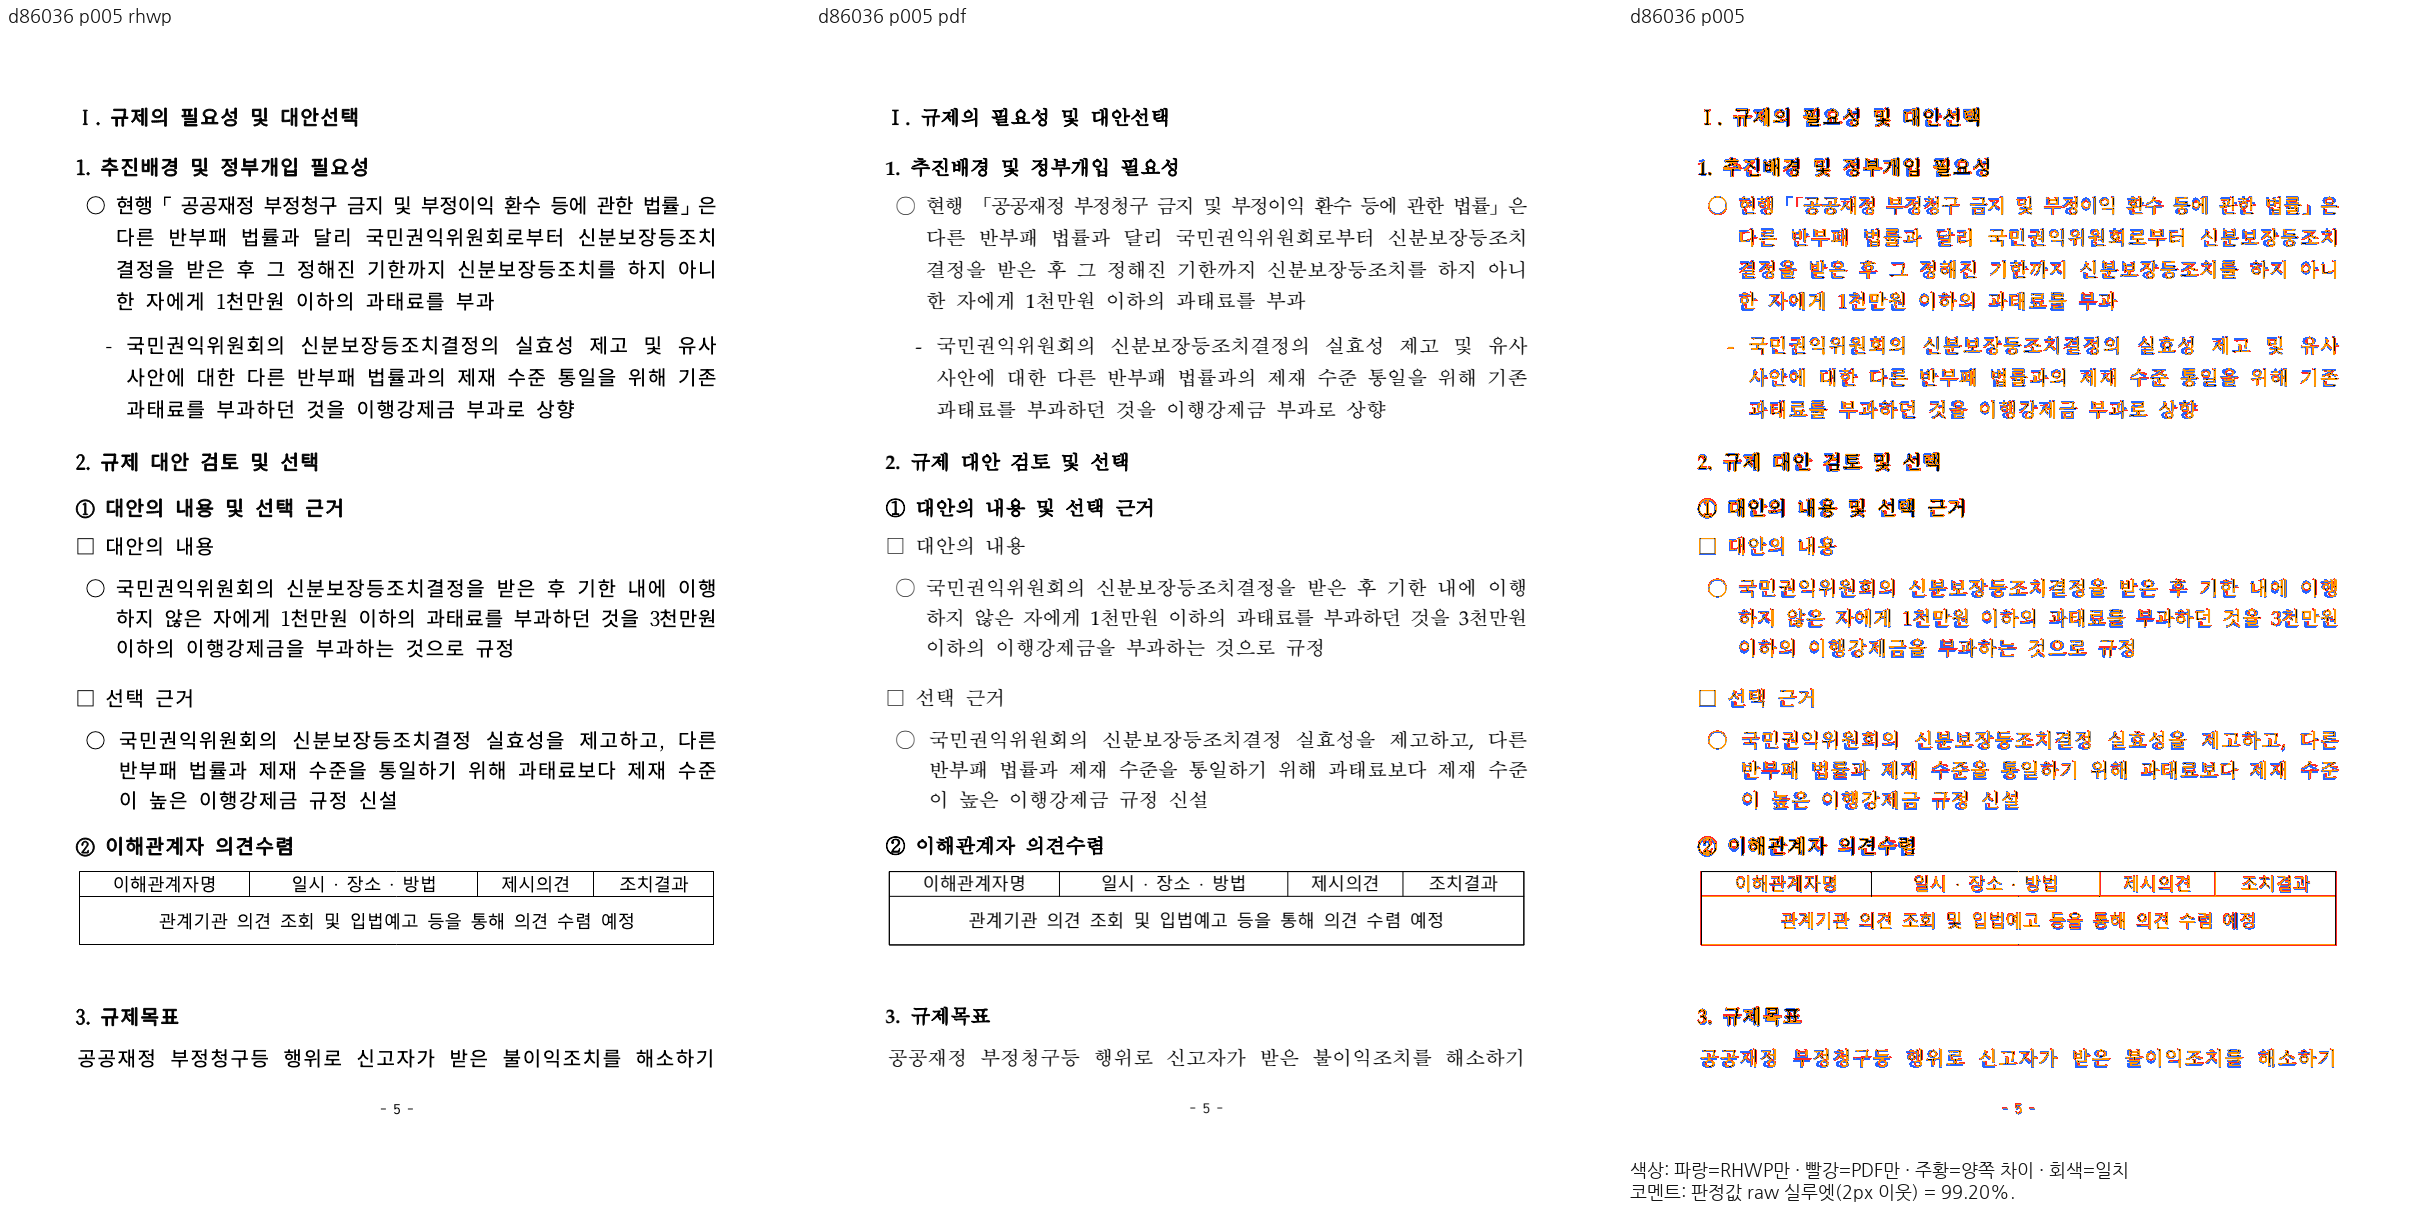
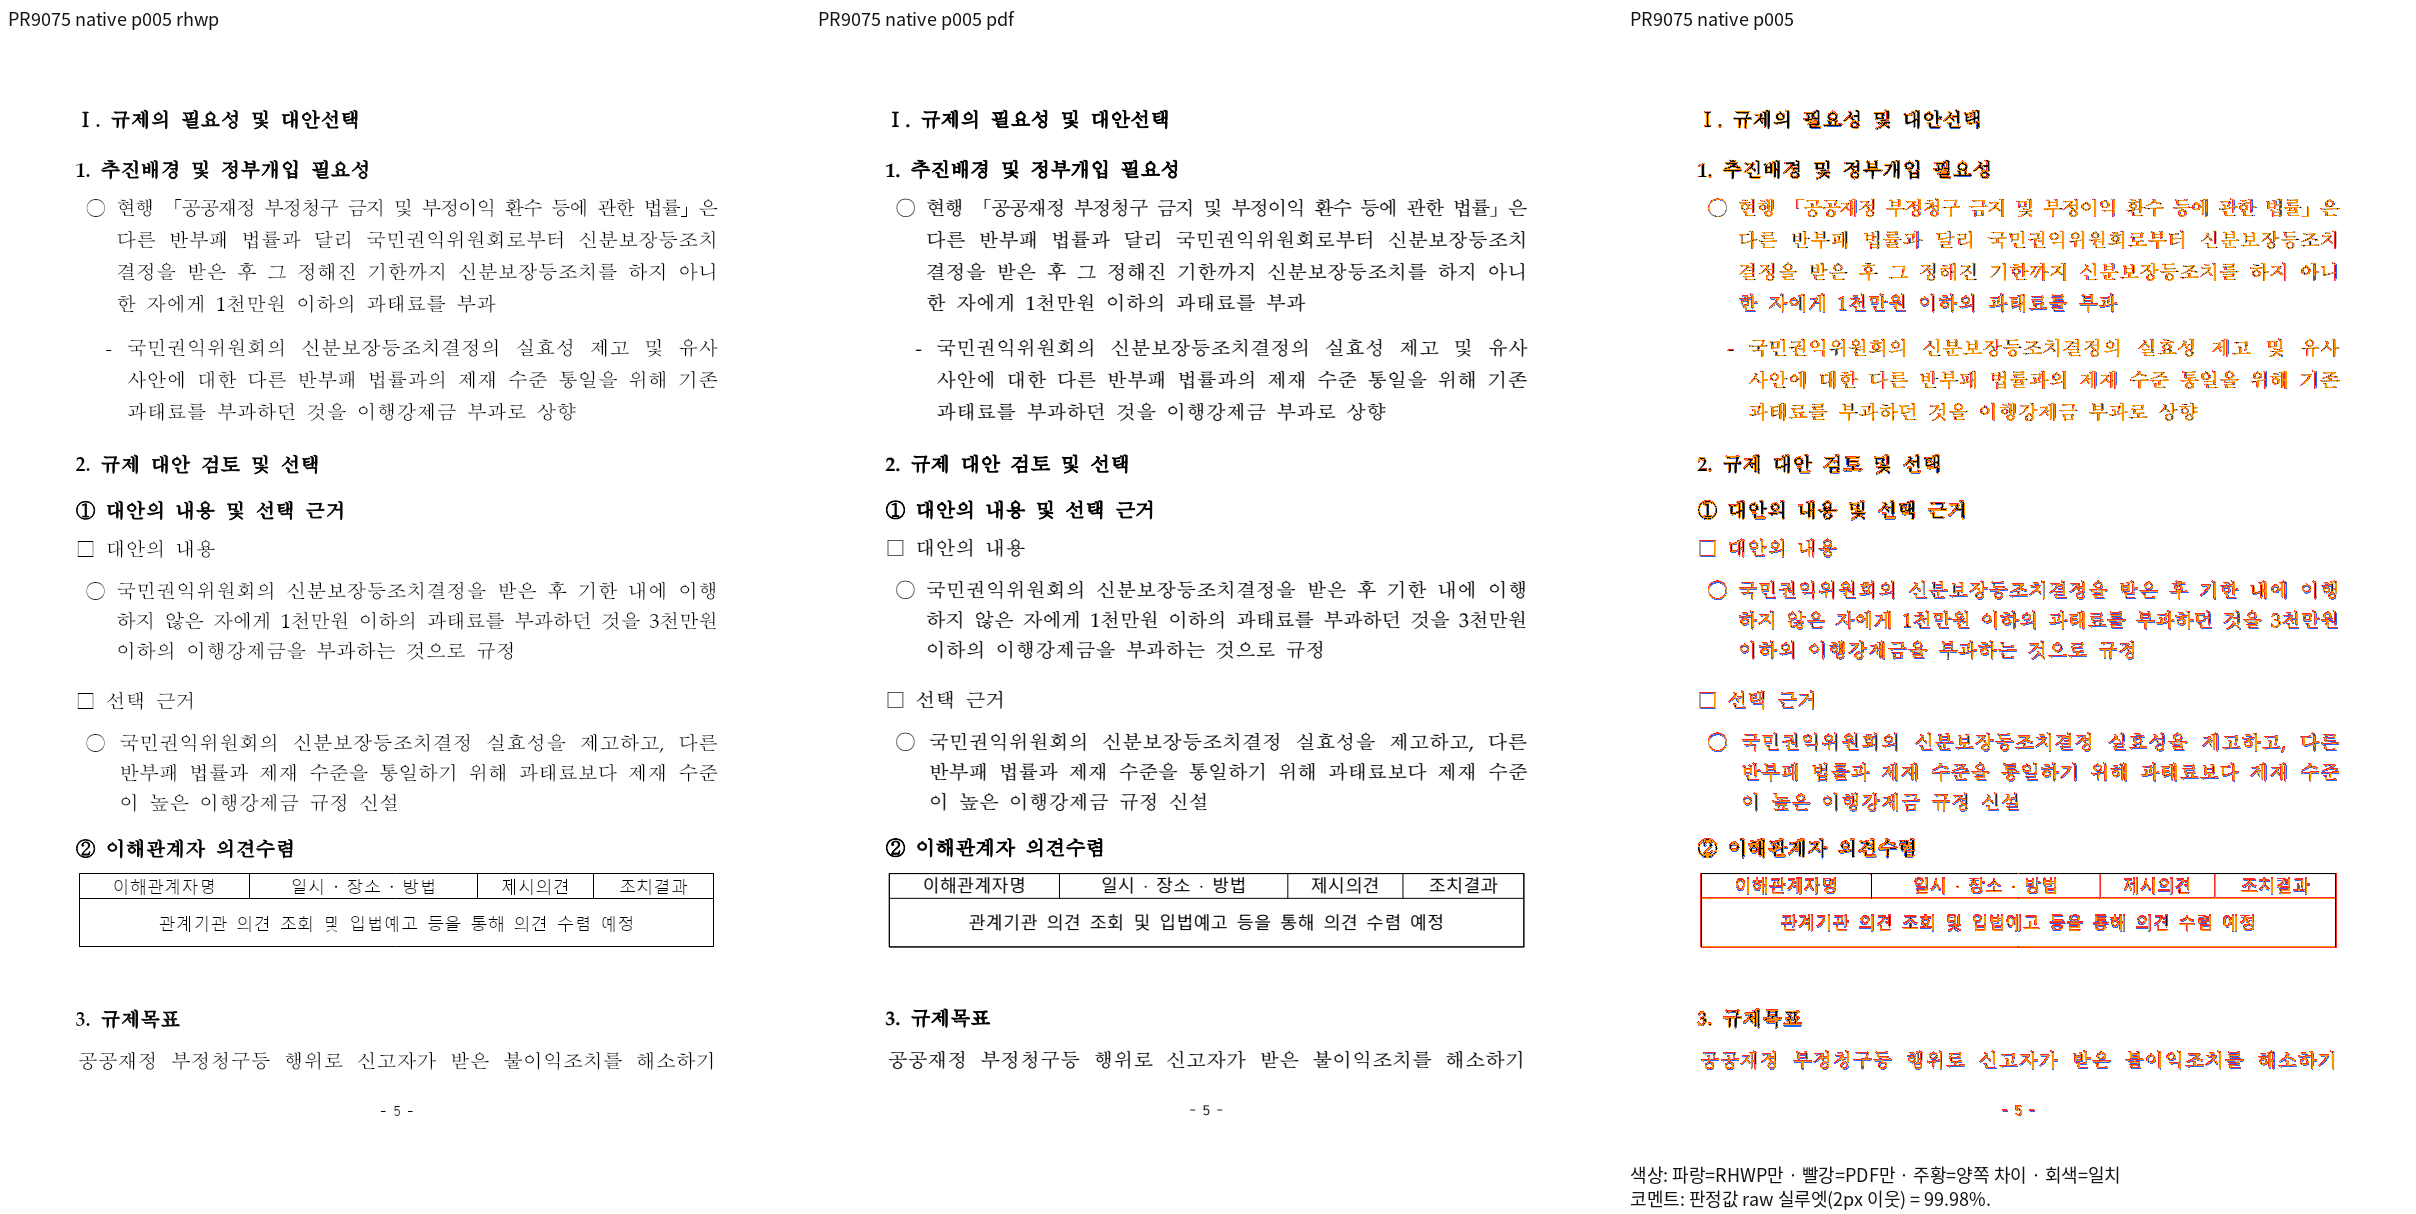
docs: PR #9075의 글꼴 조건과 시각 검증 증적 보정
(cherry picked from commit a932a8dc737b0beb26cb3597d77a56edd545404e)

diff --git a/mydocs/pr/assets/issue_9060/README.md b/mydocs/pr/assets/issue_9060/README.md
@@ -1,0 +1,46 @@
+# PR #9075 검토 증적
+
+이 폴더의 TSV와 PNG는 2026-11-14 메인터너 검토에서 같은 원본·기준 PDF로 다시 산출한 결과다.
+기존 Native 첨부의 본문 서체가 PDF와 다르던 문제를 실제 Print 글꼴 프로그램 공급 조건으로 확인했다.
+제품 조판 코드·원본·PDF·판정 임계값·비교 영역은 변경하지 않았다. 글꼴 파일은 포함하지 않는다.
+
+## 현재 측정
+
+코드 원 PR head는 `1309dbea65b7a95e25fa7d6abd3e10b5e65e5eb4`, 기준 devel은
+`53da4d2da28ae0cacf8feac3a989cc6a69fb2622`다. 충돌 없는 병합 예상 트리
+`4c80a94f2855eafb19bc764cdab9f84820fc51c8`에서 Native와 fresh WASM을 각각 빌드했다.
+실제 producer와 입력·출력 SHA는 [측정 기록](review-measurement.json)에 있다.
+
+- 입력: `samples/issue9060/86036-rowbreak-first-line-fragment.hwpx`
+- 기준: `pdf/issue9060/86036-rowbreak-first-line-fragment-2020.pdf` — 기존 한컴 Print 14쪽을 재사용했다.
+- 조건: Print profile, compat 2022, 96 DPI, 색상 경계 보정 전 2px 실루엣.
+- 글꼴: PDF의 실제 face인 휴먼명조·Palatino Linotype·H2mjsM·H2gtrM·맑은 고딕을 확인하고
+  로컬 프로그램을 공급했다. H2mjsM은 HY신명조의 PostScript 이름이다.
+  [명시적 글꼴 환경](review-font-environment.json)은 이름·선택 규칙만 포함한다.
+- 두 경로 모두 전체 14쪽이며 내용의 5·6쪽 분할과 7쪽 후속 본문을 확인했다.
+
+| 범위 | Native raw | fresh WASM raw |
+| --- | ---: | ---: |
+| 4쪽 | 100.00% | 100.00% |
+| 5쪽 | 99.98% | 100.00% |
+| 6쪽 | 100.00% | 100.00% |
+| 전쪽 최저 | 99.72% (12쪽) | 99.99% (2·12쪽) |
+
+전체 원본 TSV: [Native](native_silhouette.tsv) · [fresh WASM](wasm_silhouette.tsv).
+5쪽의 지적된 첫 글줄은 새 Native에서 2px 미대응 픽셀 0개다. 5쪽 전체의 나머지 차이와
+12쪽의 최저값은 숨기지 않고 전쪽 TSV에 그대로 남겼다. 표시값 100.00%는 반올림된
+2px 실루엣 값이며 엄격한 RGB 픽셀 동일성을 뜻하지 않는다.
+
+| 쪽 | Native | fresh WASM |
+| --- | --- | --- |
+| 4 | [review](native_review_004.png) · [overlay](native_overlay_004.png) | [review](wasm_review_004.png) · [overlay](wasm_overlay_004.png) |
+| 5 | [review](native_review_005.png) · [overlay](native_overlay_005.png) | [review](wasm_review_005.png) · [overlay](wasm_overlay_005.png) |
+| 6 | [review](native_review_006.png) · [overlay](native_overlay_006.png) | [review](wasm_review_006.png) · [overlay](wasm_overlay_006.png) |
+| 12 | [review](native_review_012.png) · [overlay](native_overlay_012.png) | [review](wasm_review_012.png) · [overlay](wasm_overlay_012.png) |
+
+작성자 최초 조건의 Native 4쪽 95.47%·5쪽 99.20% 등 과거 기록은 원 커밋
+`1309dbea65b7a95e25fa7d6abd3e10b5e65e5eb4`의 Git 이력에 보존된다. 회귀 검사 첫머리는
+그 당시 조건의 측정을 기록한다. 현재 폴더의 갱신된 측정과 혼동하지 않는다.
+
+정본 보호 대상 전체와 편람 gate의 최종 판정은 별도 최종 PR 검토 문서에서 확인한다.
+이 폴더의 주 입력 검증만으로 통합 전체의 승인을 선언하지 않는다.
